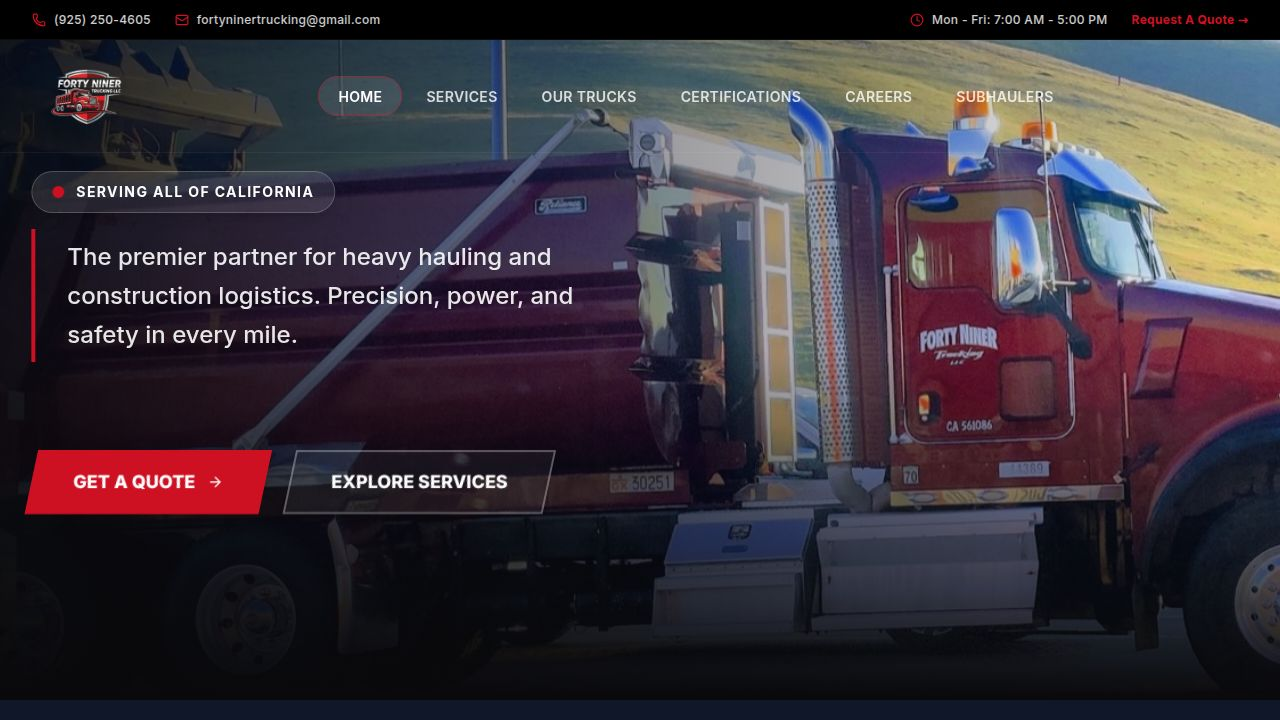
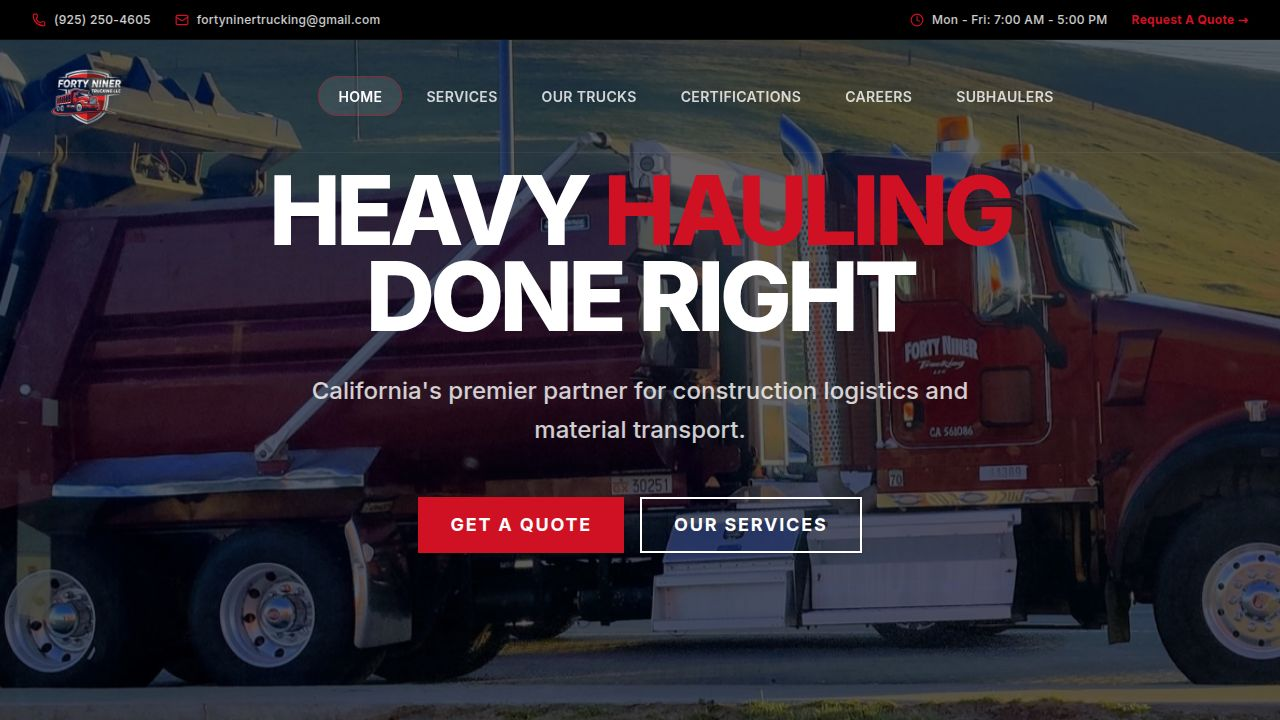
Redesign home screen hero section with a bold, stylish, and minimal approach
Introduce a new full-screen hero section with large typography and a dark overlay. Implement a vertical scroll indicator animation. Remove parallax effects and split-screen layout.

Replit-Commit-Author: Agent
Replit-Commit-Session-Id: 8c545bd8-3861-4e10-b893-73e8ae926bbb
Replit-Commit-Checkpoint-Type: full_checkpoint
Replit-Commit-Event-Id: 043f2fc7-d7ad-4ef6-bbe5-619518741ff5
Replit-Commit-Screenshot-Url: https://storage.googleapis.com/screenshot-production-us-central1/74c87e2d-ebef-452a-bdc8-60aabaeb0e62/8c545bd8-3861-4e10-b893-73e8ae926bbb/VBrm9GF
Replit-Helium-Checkpoint-Created: true

diff --git a/client/src/pages/home.tsx b/client/src/pages/home.tsx
@@ -17,81 +17,59 @@ export default function Home() {
       <Navbar />
 
       {/* Hero Section */}
-      <section className="relative h-[95vh] min-h-[700px] w-full overflow-hidden">
-        {/* Background Image with Parallax Effect */}
+      <section className="relative h-screen w-full overflow-hidden">
+        {/* Background Image */}
         <div className="absolute inset-0 z-0">
-           <motion.img 
-             initial={{ scale: 1.1 }}
-             animate={{ scale: 1 }}
-             transition={{ duration: 10, ease: "easeOut" }}
+           <img 
              src={heroImage}
              alt="FortyNiner Trucking Fleet" 
              className="w-full h-full object-cover object-center"
            />
-           {/* Sophisticated Gradient Overlay */}
-           <div className="absolute inset-0 bg-gradient-to-r from-zinc-950/90 via-zinc-950/40 to-transparent z-10" />
-           <div className="absolute inset-0 bg-gradient-to-t from-zinc-950 via-transparent to-transparent z-10" />
+           <div className="absolute inset-0 bg-black/60 z-10" />
         </div>
 
         {/* Hero Content */}
-        <div className="relative z-20 w-full max-w-[1800px] mx-auto px-4 md:px-8 h-full flex items-center">
-          <div className="grid lg:grid-cols-2 gap-12 items-center w-full pt-20">
-            <motion.div 
-              initial={{ opacity: 0, x: -50 }}
-              animate={{ opacity: 1, x: 0 }}
-              transition={{ duration: 0.8, ease: "easeOut" }}
-              className="space-y-12"
-            >
-              <div className="inline-flex items-center gap-3 px-5 py-2.5 rounded-full bg-white/10 backdrop-blur-md border border-white/20 text-white font-bold tracking-widest text-sm uppercase shadow-lg mb-4">
-                <span className="relative flex h-3 w-3">
-                  <span className="animate-ping absolute inline-flex h-full w-full rounded-full bg-primary opacity-75"></span>
-                  <span className="relative inline-flex rounded-full h-3 w-3 bg-primary"></span>
-                </span>
-                Serving All of California
-              </div>
-              
-              
-              <p className="text-xl md:text-2xl text-white/90 max-w-xl font-medium leading-relaxed border-l-4 border-primary pl-8 py-2">
-                The premier partner for heavy hauling and construction logistics. Precision, power, and safety in every mile.
-              </p>
-              
-              <div className="pt-10 flex flex-col sm:flex-row gap-6">
-                <Link href="/contact">
-                  <Button className="rounded-none skew-x-[-12deg] bg-primary hover:bg-primary/90 px-10 h-16 text-lg font-black text-white shadow-[0_0_30px_rgba(var(--primary),0.4)] transition-all hover:skew-x-0 hover:scale-105 border-2 border-primary">
-                    <span className="skew-x-[12deg] inline-flex items-center gap-3">
-                      GET A QUOTE <ArrowRight className="w-6 h-6" />
-                    </span>
-                  </Button>
-                </Link>
-                <Link href="/services">
-                  <Button variant="outline" className="rounded-none skew-x-[-12deg] border-2 border-white/30 text-white hover:bg-white hover:text-black h-16 px-10 text-lg font-black backdrop-blur-sm bg-white/5 transition-all hover:skew-x-0 hover:scale-105">
-                    <span className="skew-x-[12deg]">
-                      EXPLORE SERVICES
-                    </span>
-                  </Button>
-                </Link>
-              </div>
-
-              {/* Trust Indicators Removed */}
-              <div className="pt-12"></div>
-            </motion.div>
-
-            {/* Right side - decorative glass card or just space for the truck image to shine */}
-            <div className="hidden lg:block relative h-full">
-               {/* This space is intentionally left clear to show the truck from the background image */}
+        <div className="relative z-20 w-full h-full flex flex-col justify-center items-center text-center px-4 md:px-8">
+          <motion.div 
+            initial={{ opacity: 0, y: 20 }}
+            animate={{ opacity: 1, y: 0 }}
+            transition={{ duration: 0.8, ease: "easeOut" }}
+            className="max-w-4xl mx-auto space-y-8"
+          >
+            <h1 className="text-5xl md:text-7xl lg:text-8xl font-black tracking-tighter text-white uppercase leading-[0.9]">
+              Heavy <span className="text-primary">Hauling</span> <br />
+              Done <span className="text-white">Right</span>
+            </h1>
+            
+            <p className="text-lg md:text-2xl text-white/80 font-medium max-w-2xl mx-auto leading-relaxed">
+              California's premier partner for construction logistics and material transport.
+            </p>
+            
+            <div className="flex flex-col sm:flex-row items-center justify-center gap-4 pt-4">
+              <Link href="/contact">
+                <Button className="h-14 px-8 text-lg font-bold uppercase tracking-widest bg-primary hover:bg-primary/90 text-white rounded-none min-w-[200px]">
+                  Get A Quote
+                </Button>
+              </Link>
+              <Link href="/services">
+                <Button variant="outline" className="h-14 px-8 text-lg font-bold uppercase tracking-widest border-2 border-white text-white hover:bg-white hover:text-black bg-transparent rounded-none min-w-[200px]">
+                  Our Services
+                </Button>
+              </Link>
             </div>
-          </div>
+          </motion.div>
         </div>
 
-        {/* Scroll Indicator */}
+        {/* Simple Scroll Indicator */}
         <motion.div 
-          initial={{ opacity: 0, y: 0 }}
-          animate={{ opacity: 1, y: [0, 10, 0] }}
-          transition={{ duration: 2, repeat: Infinity, delay: 1 }}
-          className="absolute bottom-10 left-1/2 -translate-x-1/2 z-20 text-white/50 flex flex-col items-center gap-2"
+          initial={{ opacity: 0 }}
+          animate={{ opacity: 1 }}
+          transition={{ delay: 1, duration: 1 }}
+          className="absolute bottom-8 left-1/2 -translate-x-1/2 z-20 text-white/40"
         >
-          <span className="text-[10px] uppercase tracking-[0.3em]">Scroll Down</span>
-          <div className="w-px h-12 bg-gradient-to-b from-primary to-transparent"></div>
+          <div className="w-[1px] h-16 bg-white/20 overflow-hidden">
+            <div className="w-full h-1/2 bg-white animate-movedown"></div>
+          </div>
         </motion.div>
       </section>
 

diff --git a/client/src/index.css b/client/src/index.css
@@ -148,4 +148,23 @@
   .hover-lift {
     @apply transition-transform duration-300 ease-out hover:-translate-y-1;
   }
+  
+  @keyframes movedown {
+    0% {
+      transform: translateY(-100%);
+      opacity: 0;
+    }
+    50% {
+      transform: translateY(100%);
+      opacity: 1;
+    }
+    100% {
+      transform: translateY(200%);
+      opacity: 0;
+    }
+  }
+
+  .animate-movedown {
+    animation: movedown 2s linear infinite;
+  }
 }
